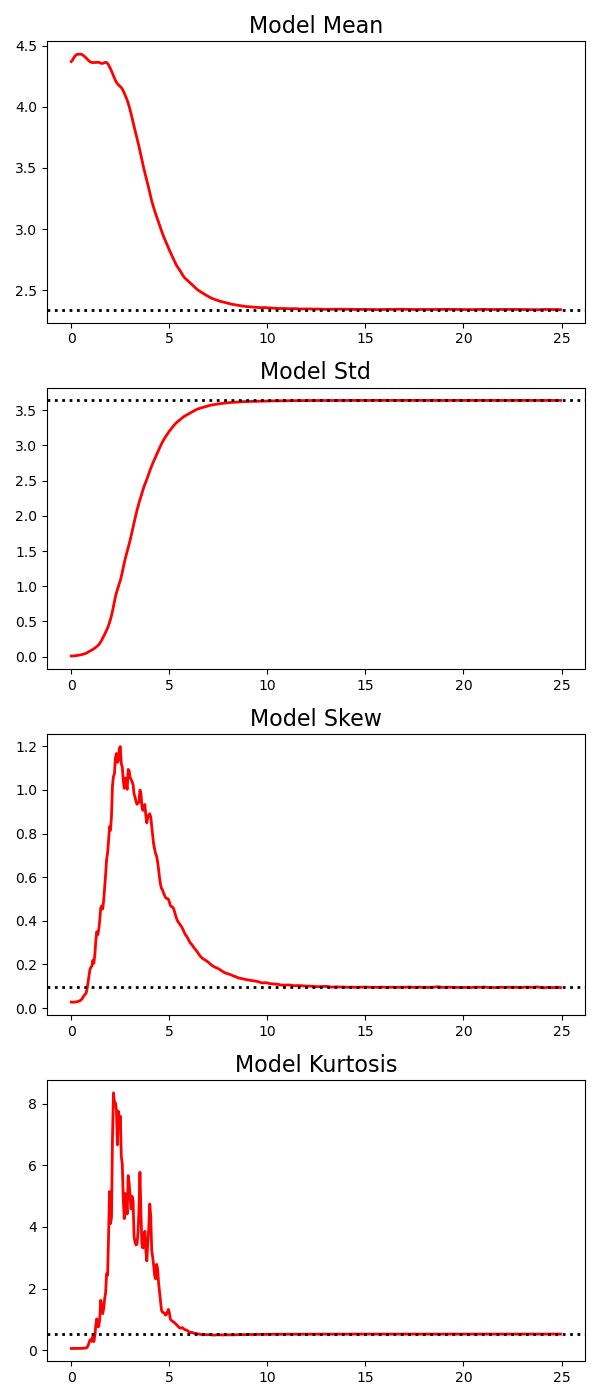
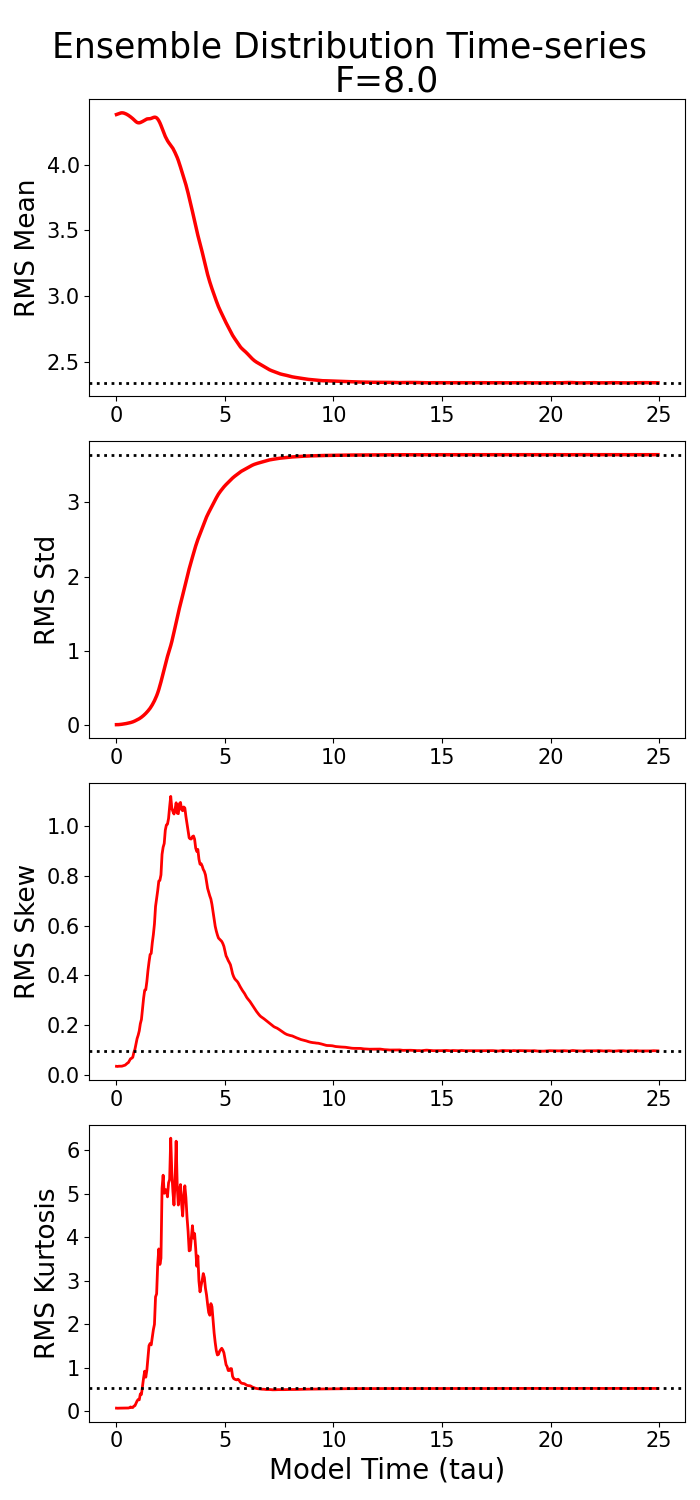
PLOTS! Cleaned up now too

diff --git a/plot_timeseries_Fconst.py b/plot_timeseries_Fconst.py
@@ -28,6 +28,7 @@ for file in fpath.glob('*.pkl'):
 def plot( data ):
     # Input: data dictionary containing
     # all eqbm metrics and cfg settings
+    F = str( data['F'].round(2) )
 
     # Defining 1d time-array (x-axis)
     time_arr1d = np.arange( 
@@ -38,45 +39,52 @@ def plot( data ):
     )
     
     # Setting up empty subplots
-    fig, axs = plt.subplots(nrows=4, ncols=1, figsize=(6,14))
+    fig, axs = plt.subplots(nrows=4, ncols=1, figsize=(7,15))
 
     # MEAN SUBPLOT 
     ax = axs[0]
-    ax.set_title( r'Model Mean', fontsize=16 )
-    ax.set_xlabel('')
-    ax.plot( time_arr1d, data['mean'], '-r', linewidth=2)
+    ax.set_ylabel( 'RMS Mean', fontsize=19 )
+    ax.plot( time_arr1d, data['mean'], '-r', linewidth=2.5)
     ax.axhline( data['eqbm_mean'], color='k', linestyle=':', linewidth=2)
 
     # STD SUBPLOT 
     ax = axs[1]
-    ax.set_title( r'Model Std', fontsize=16 )
-    ax.set_xlabel('')
-    ax.plot( time_arr1d, data['std'], '-r', linewidth=2)
+    ax.set_ylabel( 'RMS Std', fontsize=19 )
+    ax.plot( time_arr1d, data['std'], '-r', linewidth=2.5)
     ax.axhline( data['eqbm_std'], color='k', linestyle=':', linewidth=2)
 
     # SKEW SUBPLOT 
     ax = axs[2]
-    ax.set_title( r'Model Skew', fontsize=16 )
-    ax.set_xlabel('')
+    ax.set_ylabel( 'RMS Skew', fontsize=19 )
     ax.plot( time_arr1d, data['skew'], '-r', linewidth=2)
     ax.axhline( data['eqbm_skew'], color='k', linestyle=':', linewidth=2)
 
     # KURTOSIS SUBPLOT 
     ax = axs[3]
-    ax.set_title( r'Model Kurtosis', fontsize=16 )
-    ax.set_xlabel('')
+    ax.set_ylabel( 'RMS Kurtosis', fontsize=19 )
+    ax.set_xlabel('Model Time (tau)', fontsize=20)
     ax.plot( time_arr1d, data['kurt'], '-r', linewidth=2)
     ax.axhline( data['eqbm_kurt'], color='k', linestyle=':', linewidth=2)
 
+
     # CUSTOMIZING
+    for subplot in range(4):
+        axs[subplot].tick_params(labelsize=15)
+    plt.suptitle(f'Ensemble Distribution Time-series', fontsize=25)
+    axs[0].set_title(f'F={F}', fontsize=25)
     plt.tight_layout()
 
+
     # SAVING
-    F = str( data['F'] )
     fname = savedir + f'timeseries_{F}.png'
     plt.savefig( fname )
 
     plt.close()
     
-plot( datadict['8.0'] )
+
+
+# Looping over all loaded files and generating
+# plots for each of them
+for key, data in datadict.items():
+    plot( data )
 

diff --git a/compile_super_ens.py b/compile_super_ens.py
@@ -14,7 +14,7 @@ from pathlib import Path
 
 # user-settings
 rootpath = Path('analyzed_data/Fconst/single_ens/')
-F_vals = np.arange(5.0, 15.0, 0.1).round(2)
+F_vals = np.arange(5.0, 15.1, 0.1).round(2)
 savedir = 'analyzed_data/Fconst/super_ens/'
 
 # Compiling function for a single F value 